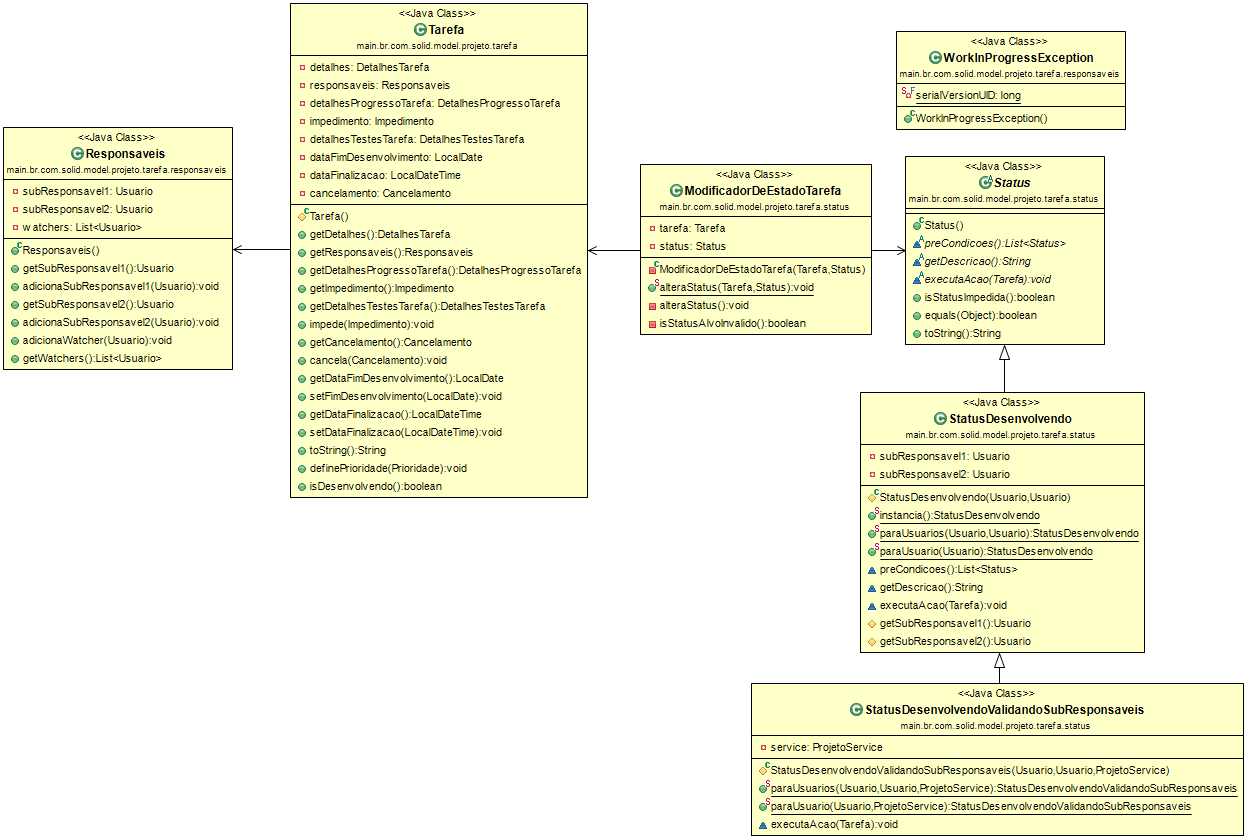
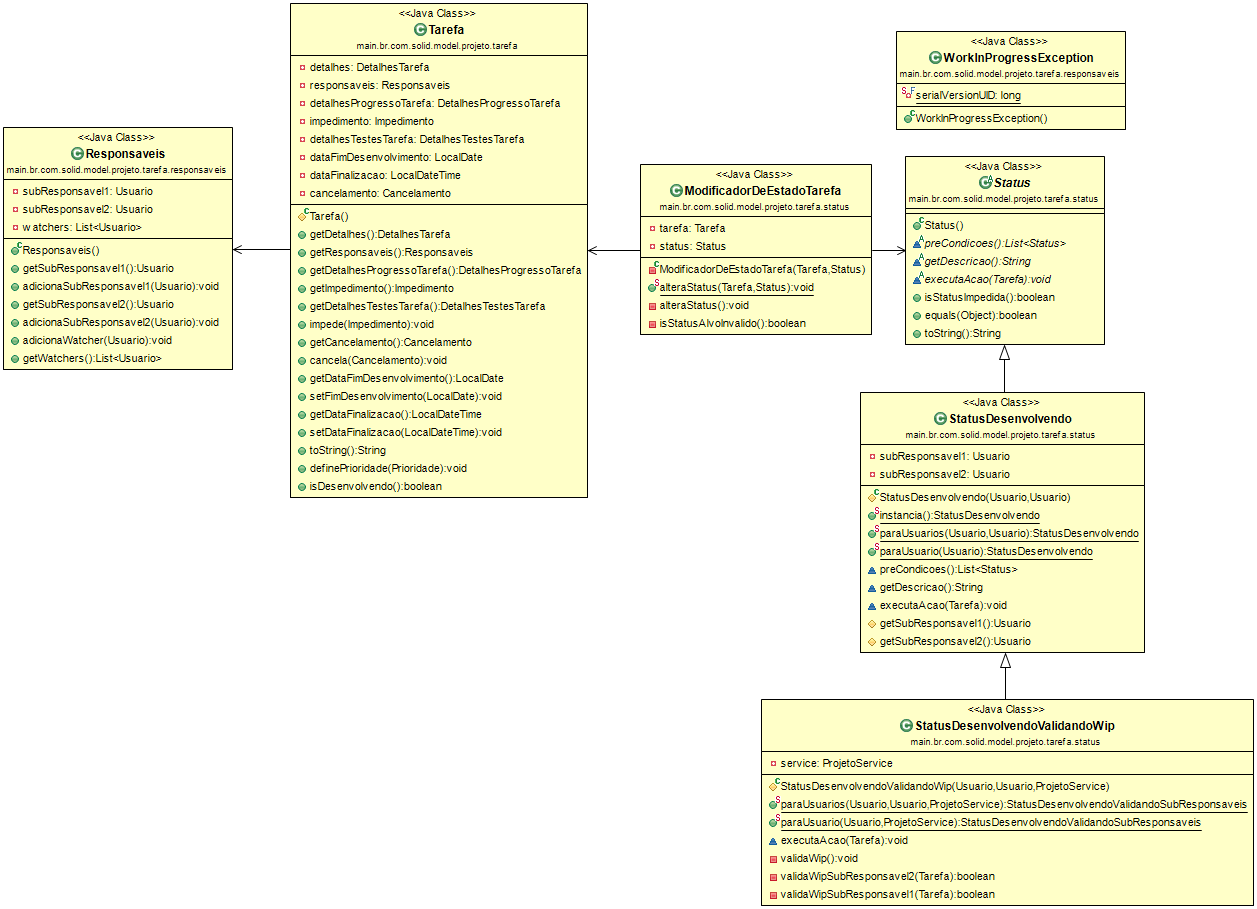
[CONTROLE-DE-TAREFAS-POR-USUARIO] Rename

Changed region(s): [[0.0, 0.0, 1.0, 1.0]]

diff --git a/test/br/com/solid/model/projeto/tarefa/responsaveis/ResponsaveisTest.java b/test/br/com/solid/model/projeto/tarefa/responsaveis/ResponsaveisTest.java
@@ -21,8 +21,7 @@ import main.br.com.solid.model.projeto.tarefa.TarefaBuilder;
 import main.br.com.solid.model.projeto.tarefa.responsaveis.Responsaveis;
 import main.br.com.solid.model.projeto.tarefa.responsaveis.WorkInProgressException;
 import main.br.com.solid.model.projeto.tarefa.status.StatusADesenvolver;
-import main.br.com.solid.model.projeto.tarefa.status.StatusDesenvolvendo;
-import main.br.com.solid.model.projeto.tarefa.status.StatusDesenvolvendoValidandoSubResponsaveis;
+import main.br.com.solid.model.projeto.tarefa.status.StatusDesenvolvendoValidandoWip;
 import main.br.com.solid.model.usuario.Usuario;
 import main.br.com.solid.model.usuario.UsuarioBuilder;
 import main.br.com.solid.service.projeto.ProjetoService;
@@ -49,13 +48,13 @@ public class ResponsaveisTest {
 	@Test
 	public void permite_usuario_desenvolver_duas_tarefas_simultaneamente() {
 		Tarefa os1 = geraTarefa("OS 1");
-		alteraStatus(os1, StatusDesenvolvendo.paraUsuario(usuarioPadrao));
+		alteraStatus(os1, StatusDesenvolvendoValidandoWip.paraUsuario(usuarioPadrao));
 		
 		Responsaveis responsaveisOs1 = os1.getResponsaveis();
 		assertThat(usuarioPadrao, allOf(equalTo(responsaveisOs1.getSubResponsavel1()), equalTo(responsaveisOs1.getSubResponsavel2())));
 		
 		Tarefa os2 = geraTarefa("OS 2");
-		alteraStatus(os2, StatusDesenvolvendo.paraUsuario(usuarioPadrao));
+		alteraStatus(os2, StatusDesenvolvendoValidandoWip.paraUsuario(usuarioPadrao));
 		
 		Responsaveis responsaveisOs2 = os2.getResponsaveis();
 		assertThat(usuarioPadrao, allOf(equalTo(responsaveisOs2.getSubResponsavel1()), equalTo(responsaveisOs2.getSubResponsavel2())));
@@ -64,17 +63,17 @@ public class ResponsaveisTest {
 	@Test(expected = WorkInProgressException.class)
 	public void nao_permite_usuario_desenvolver_mais_de_duas_tarefas_simultaneamente() {
 		Tarefa os1 = geraTarefa("OS 1");
-		alteraStatus(os1, StatusDesenvolvendoValidandoSubResponsaveis.paraUsuario(usuarioPadrao, service));
+		alteraStatus(os1, StatusDesenvolvendoValidandoWip.paraUsuario(usuarioPadrao, service));
 		Responsaveis responsaveisOs1 = os1.getResponsaveis();
 		assertThat(usuarioPadrao, allOf(equalTo(responsaveisOs1.getSubResponsavel1()), equalTo(responsaveisOs1.getSubResponsavel2())));
 		
 		Tarefa os2 = geraTarefa("OS 2");
-		alteraStatus(os2, StatusDesenvolvendoValidandoSubResponsaveis.paraUsuario(usuarioPadrao, service));
+		alteraStatus(os2, StatusDesenvolvendoValidandoWip.paraUsuario(usuarioPadrao, service));
 		Responsaveis responsaveisOs2 = os2.getResponsaveis();
 		assertThat(usuarioPadrao, allOf(equalTo(responsaveisOs2.getSubResponsavel1()), equalTo(responsaveisOs2.getSubResponsavel2())));
 		
 		Tarefa os3 = geraTarefa("OS 3");
-		alteraStatus(os3, StatusDesenvolvendoValidandoSubResponsaveis.paraUsuario(usuarioPadrao, service));
+		alteraStatus(os3, StatusDesenvolvendoValidandoWip.paraUsuario(usuarioPadrao, service));
 	}
 
 	private Tarefa geraTarefa(String titulo) {

diff --git a/src/main/br/com/solid/model/projeto/tarefa/status/StatusDesenvolvendoValidandoWip.java b/src/main/br/com/solid/model/projeto/tarefa/status/StatusDesenvolvendoValidandoWip.java
@@ -1,0 +1,58 @@
+package main.br.com.solid.model.projeto.tarefa.status;
+
+import main.br.com.solid.model.projeto.Projeto;
+import main.br.com.solid.model.projeto.tarefa.Tarefa;
+import main.br.com.solid.model.projeto.tarefa.responsaveis.WorkInProgressException;
+import main.br.com.solid.model.usuario.Usuario;
+import main.br.com.solid.service.projeto.ProjetoService;
+
+public class StatusDesenvolvendoValidandoWip extends StatusDesenvolvendo {
+	
+	private ProjetoService service;
+	
+	protected StatusDesenvolvendoValidandoWip(Usuario subResponsavel1, Usuario subResponsavel2, ProjetoService service) {
+		super(subResponsavel1, subResponsavel2);
+		this.service = service;
+	}
+	
+	public static StatusDesenvolvendoValidandoWip paraUsuarios(Usuario subResponsavel1, Usuario subResponsavel2, ProjetoService service) {
+		return new StatusDesenvolvendoValidandoWip(subResponsavel1, subResponsavel2, service);
+	}
+	
+	public static StatusDesenvolvendoValidandoWip paraUsuario(Usuario subResponsavel1, ProjetoService service) {
+		return new StatusDesenvolvendoValidandoWip(subResponsavel1, subResponsavel1, service);
+	}
+	
+	@Override
+	void executaAcao(Tarefa tarefaAlvo) {
+		validaWip();
+		super.executaAcao(tarefaAlvo);
+	}
+
+	private void validaWip() {
+		int ocorrenciasResponsavel1 = 1;
+		int ocorrenciasResponsavel2 = 1;
+		
+		for(Projeto projeto : service.listAll())
+			for (Tarefa tarefa : projeto.getTarefas())
+				if(tarefa.isDesenvolvendo()) {
+					if(validaWipSubResponsavel1(tarefa))
+							ocorrenciasResponsavel1++;
+					
+					if(validaWipSubResponsavel2(tarefa))
+							ocorrenciasResponsavel2++;
+				}
+		
+		if(ocorrenciasResponsavel1 > 2 || ocorrenciasResponsavel2 > 2)
+			throw new WorkInProgressException();
+	}
+
+	private boolean validaWipSubResponsavel1(Tarefa tarefa) {
+		return getSubResponsavel1().equals(tarefa.getResponsaveis().getSubResponsavel1()) || getSubResponsavel2().equals(tarefa.getResponsaveis().getSubResponsavel2());
+	}
+	
+	private boolean validaWipSubResponsavel2(Tarefa tarefa) {
+		return getSubResponsavel2().equals(tarefa.getResponsaveis().getSubResponsavel1()) || getSubResponsavel1().equals(tarefa.getResponsaveis().getSubResponsavel2());
+	}
+
+}
